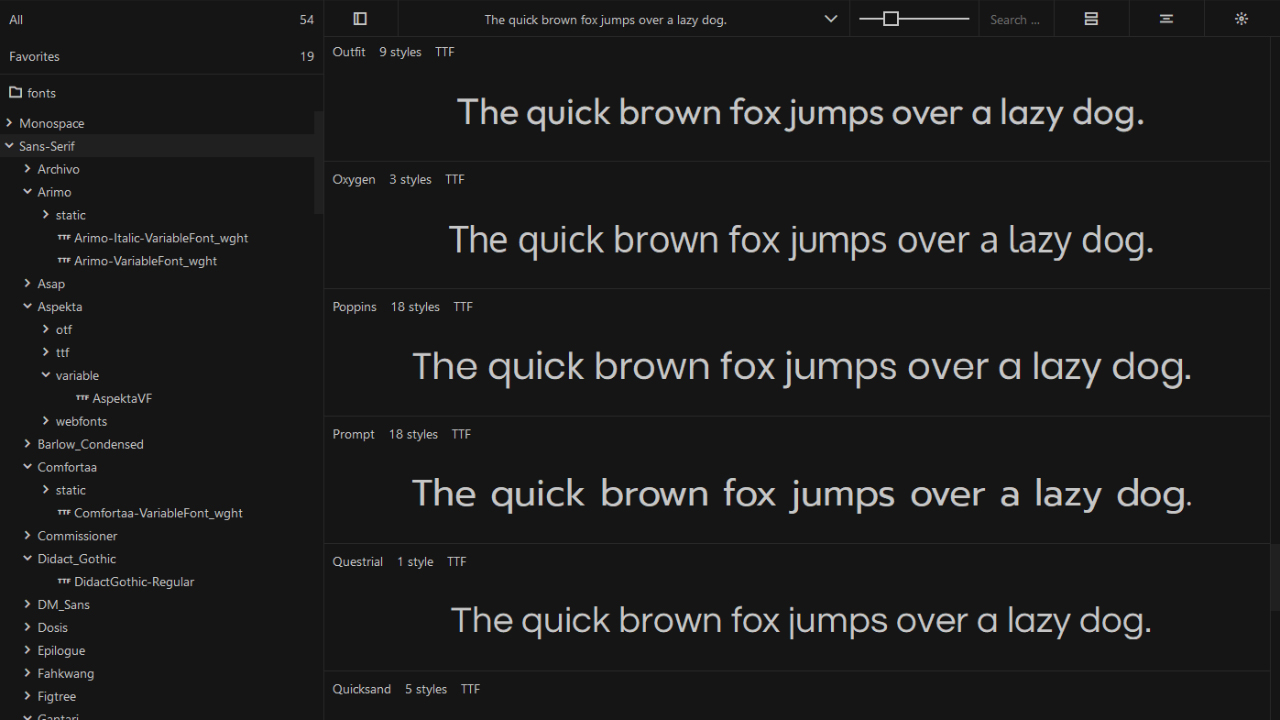
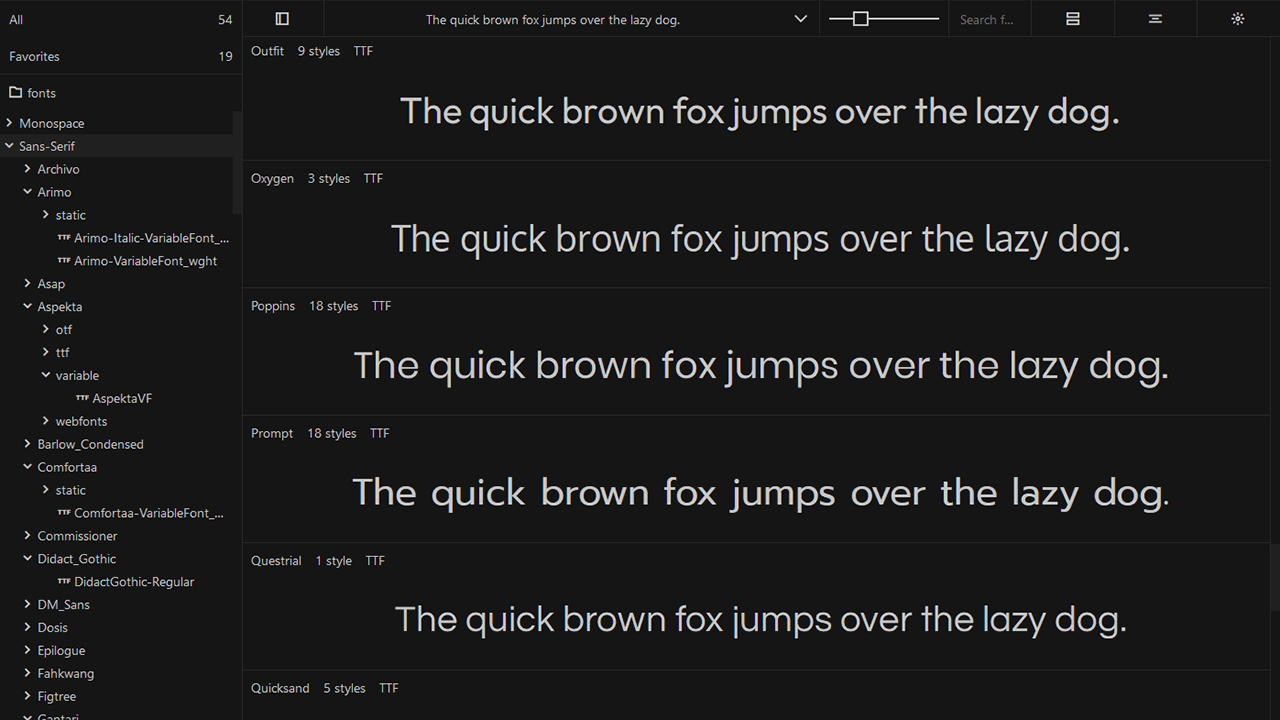
Minor fixes

diff --git a/widget/controls.py b/widget/controls.py
@@ -64,7 +64,7 @@ class Controls(QWidget):
 
         previewWrap = ComboBox(parent = self, edit = True, tabName = False, tab = False)
         previewWrap.setObjectName("preview-combo")
-        for i in ["The quick brown fox jumps over a lazy dog.", "ABCDEFGHIJKLMNOPQRSTUVWXYZabcdefghijklmnopqrstuvwxyz", """!"#$%&'()*+,-./0123456789:;<=>?""", "¡¢£¤¥¦§¨©ª«¬®¯°±²³´µ¶·¸¹º»¼½¾¿"]:
+        for i in ["The quick brown fox jumps over the lazy dog.", "ABCDEFGHIJKLMNOPQRSTUVWXYZabcdefghijklmnopqrstuvwxyz", """!"#$%&'()*+,-./0123456789:;<=>?""", "¡¢£¤¥¦§¨©ª«¬®¯°±²³´µ¶·¸¹º»¼½¾¿"]:
             previewWrap.addItem(data = i, text = i, default = True if DATA["fontPreview"] == i else False)
 
 

diff --git a/README.md b/README.md
@@ -1,0 +1,34 @@
+## Overview
+Currently it can:
+- View 1 font directory at a time
+- Index only .ttf/.otf font files
+- Basic text formatting
+- Display font info and glyph data
+
+To-do:
+- Font collection managment
+- View multiple directories
+- Custom text previews
+- Optimize font resizing
+- Custom theme
+
+Known issues:
+- Sorts incorrectly by font weight on Linux
+
+
+
+## How to run
+```
+git clone https://github.com/0dist/fontview
+cd fontview
+pip install -r requirements.txt
+main.py
+```
+
+
+## Example
+![example](https://github.com/0dist/fontview/blob/master/example.jpg)
+
+## Credits
+This app uses [PyQt-Frameless-Window
+](https://github.com/zhiyiYo/PyQt-Frameless-Window) that replaces default Windows title bar
